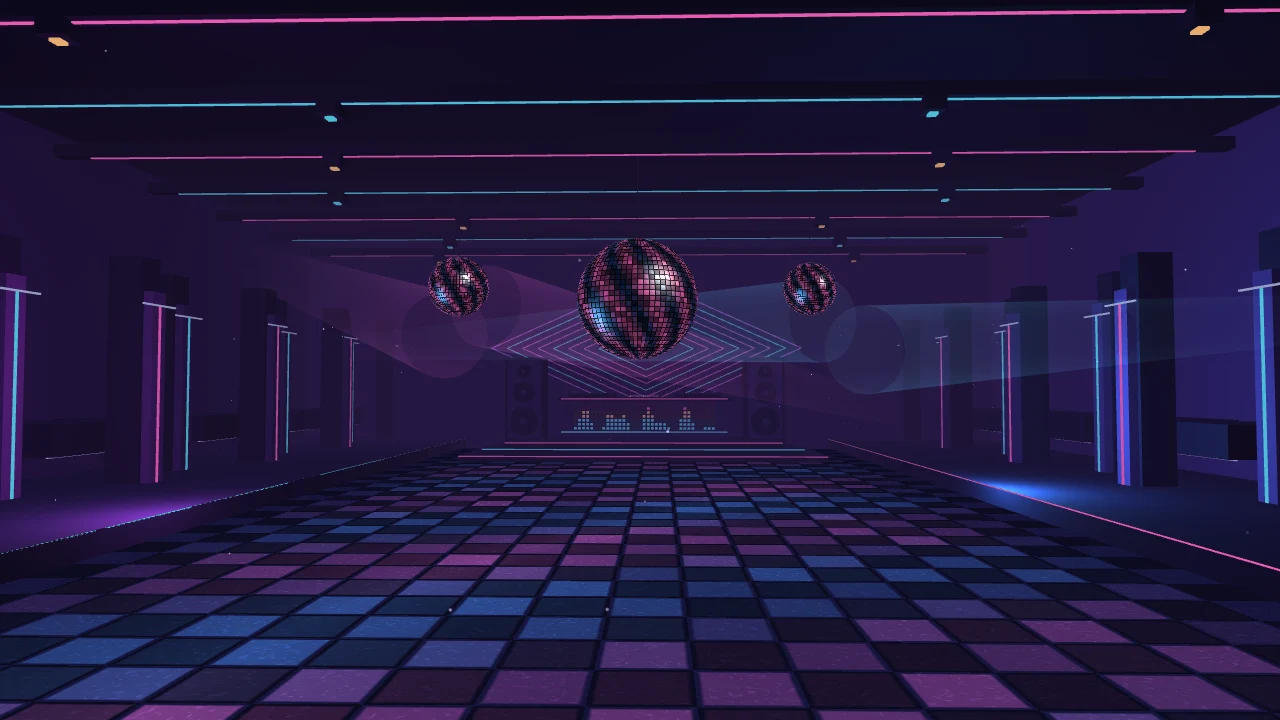
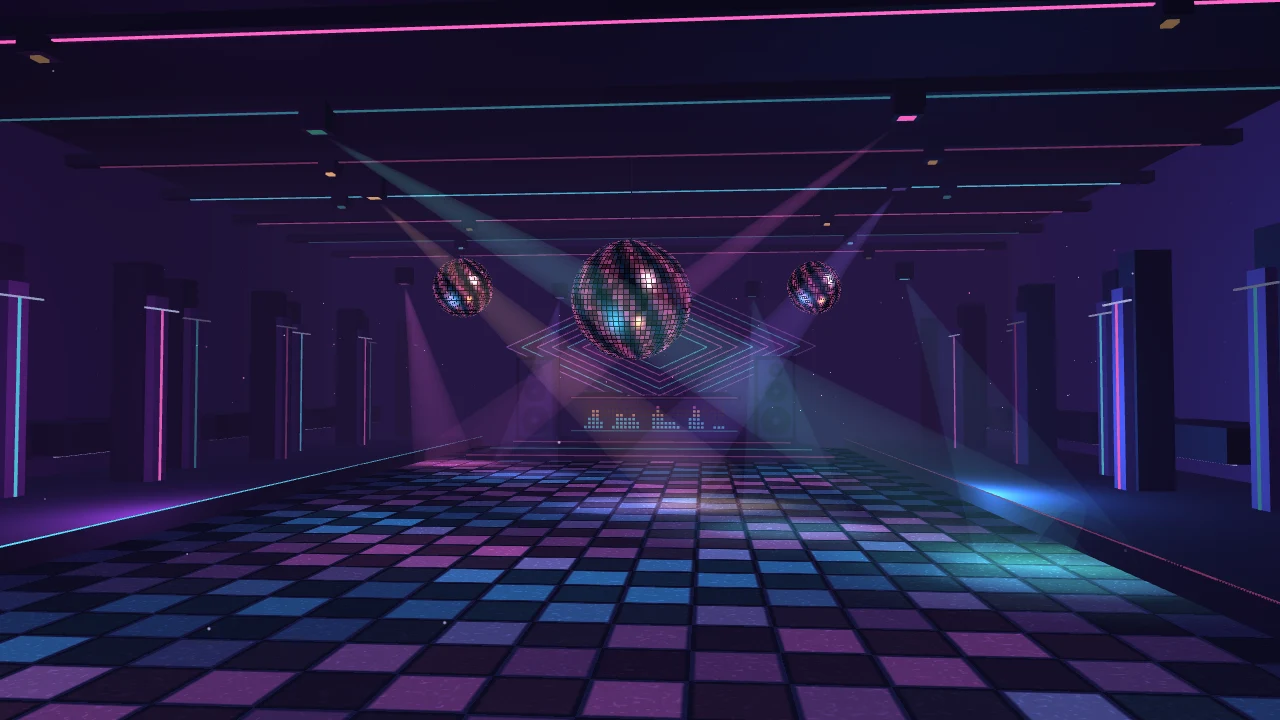
feat: se crean nuevos themes

diff --git a/src/components/scenes/discoEighties.ts b/src/components/scenes/discoEighties.ts
@@ -17,13 +17,17 @@ const discoBallFragment = `
     vec3 facet=vec3(cos(angle)*sin(latitude),cos(latitude),sin(angle)*sin(latitude));
     vec3 normal=normalize(vNormal+facet*.088);
     vec3 reflection=reflect(-normalize(vView),normal);
-    float shine=pow(max(0.,dot(reflection,normalize(vec3(.71,.43,.55)))),19.);
-    float blue=pow(max(0.,dot(reflection,normalize(vec3(-.76,-.44,.30)))),10.);
+    vec3 key=normalize(vec3(.53+.41*sin(uTime*1.65),.43,.57));
+    vec3 fill=normalize(vec3(-.61,-.34+.38*sin(uTime*1.32),.41));
+    float shine=pow(max(0.,dot(reflection,key)),17.);
+    float blue=pow(max(0.,dot(reflection,fill)),11.);
+    float glint=pow(max(0.,dot(reflection,normalize(vec3(.31,-.65,.51)))),46.);
     float rim=pow(1.-max(0.,dot(normal,normalize(vView))),2.8);
     float chroma=.45+.52*sin(tile.x*.93+tile.y*.51+uTime*.68);
     vec3 color=mix(vec3(.063,.10,.22),uAccent*.59,chroma);
     color*=.43+h*.81;
     color+=vec3(1.,.94,.89)*shine*(.58+h*.65)+vec3(.32,.74,1.)*blue*.88;
+    color+=vec3(1.,.70,.34)*glint;
     color+=mix(uAccent,vec3(.43,.66,1.),h)*rim*.26;
     float seams=smoothstep(.045,.14,min(min(cell.x,1.-cell.x),min(cell.y,1.-cell.y)));
     gl_FragColor=vec4(color*(.25+.75*seams),1.);
@@ -37,6 +41,8 @@ export const discoEighties: BuildScene = ({ scene,camera,accent,base }) => {
   const violet=base.clone().lerp(color('#623b83'),.51);
   const cyan=color('#53def4');
   const gold=color('#ffbe75');
+  const lavender=color('#9670ff');
+  const mint=color('#5dffd0');
   const ink=color('#14132a');
   const coolLight=color('#aab9de');
   scene.background=dark;
@@ -52,6 +58,19 @@ export const discoEighties: BuildScene = ({ scene,camera,accent,base }) => {
   const neon:Instance[]=[];
   const acoustic:Instance[]=[];
   const box=new T.BoxGeometry();
+  const clock={value:0};
+  const fixtures = [
+    { origin: new T.Vector3(-13.3, 9.6, -22), tint: accent, phase: .2, reach: 11 },
+    { origin: new T.Vector3(13.3, 9.6, -22), tint: cyan, phase: 2.8, reach: 11 },
+    { origin: new T.Vector3(-10.6, 11.8, -11), tint: gold, phase: 4.3, reach: 9 },
+    { origin: new T.Vector3(10.6, 11.8, -11), tint: lavender, phase: 1.6, reach: 9 },
+    { origin: new T.Vector3(-8.8, 11.8, -2), tint: mint, phase: 3.5, reach: 12 },
+    { origin: new T.Vector3(8.8, 11.8, -2), tint: accent, phase: 5.7, reach: 12 },
+    { origin: new T.Vector3(-5.8, 9.4, -28), tint: lavender, phase: .8, reach: 8 },
+    { origin: new T.Vector3(5.8, 9.4, -28), tint: cyan, phase: 3.9, reach: 8 },
+  ];
+  const spotTargets = fixtures.map(() => new T.Vector2());
+  const spotColors = fixtures.map(({ tint }) => tint);
   function add(list:Instance[],x:number,y:number,z:number,sx:number,sy:number,sz:number,tint:T.Color,
     rx=0,ry=0,rz=0) {
     list.push({x,y,z,sx,sy,sz,color:tint,rx,ry,rz});
@@ -88,6 +107,10 @@ export const discoEighties: BuildScene = ({ scene,camera,accent,base }) => {
       add(structure,x,12.32,z,.64,.46,.72,ink);
       add(neon,x,12.04,z,.26,.079,.30,i%2===0 ? gold : cyan);
     }
+  }
+  for (const { origin, tint } of fixtures) {
+    add(structure,origin.x,origin.y+.43,origin.z,.82,.87,.72,ink);
+    add(neon,origin.x,origin.y+.05,origin.z,.48,.14,.41,tint);
   }
   for(let line=0;line<8;line++){
     const r=3.1+line*.99;
@@ -128,18 +151,35 @@ export const discoEighties: BuildScene = ({ scene,camera,accent,base }) => {
     add(neon,(i-6.5)*.124,3.54,-26.96,.071,.067,.15,i%3===0 ? gold : accent);
   }
   instanced(scene,box,new T.MeshStandardMaterial({roughness:.72}),structure);
-  instanced(scene,box,new T.MeshBasicMaterial(),neon);
+  const neonMaterial=new T.MeshBasicMaterial();
+  neonMaterial.onBeforeCompile=(shader)=>{
+    shader.uniforms.uTime=clock;
+    shader.vertexShader='varying vec3 vFixture;\n'+shader.vertexShader.replace('#include <begin_vertex>',
+      '#include <begin_vertex>\nvFixture=instanceMatrix[3].xyz;');
+    shader.fragmentShader='uniform float uTime; varying vec3 vFixture;\n'+shader.fragmentShader.replace('#include <color_fragment>',`
+      #include <color_fragment>
+      float wave=.5+.5*sin(uTime*3.2+vFixture.z*.34+vFixture.x*.19);
+      float chase=smoothstep(.24,.85,wave);
+      diffuseColor.rgb *= .51+.62*chase;
+    `);
+  };
+  instanced(scene,box,neonMaterial,neon);
   instanced(scene,new T.CylinderGeometry(.5,.5,1,24),new T.MeshStandardMaterial({roughness:.63}),acoustic);
 
-  const floorTime={value:0};
   const floor=new T.Mesh(new T.PlaneGeometry(45,64).rotateX(-Math.PI/2).translate(0,0,-11),new T.ShaderMaterial({
-    uniforms:{uTime:floorTime,uAccent:{value:accent},uBase:{value:base}},
+    defines:{SPOTS:fixtures.length},
+    uniforms:{
+      uTime:clock,uAccent:{value:accent},uBase:{value:base},
+      uSpotTargets:{value:spotTargets},uSpotColors:{value:spotColors},
+    },
     vertexShader:`varying vec3 vFloor;
       void main(){vFloor=position;gl_Position=projectionMatrix*modelViewMatrix*vec4(position,1.);}`,
     fragmentShader:`
       varying vec3 vFloor;
       uniform vec3 uAccent,uBase;
       uniform float uTime;
+      uniform vec2 uSpotTargets[SPOTS];
+      uniform vec3 uSpotColors[SPOTS];
       ${noiseGLSL}
       void main(){
         vec2 p=vFloor.xz*.73;
@@ -147,13 +187,19 @@ export const discoEighties: BuildScene = ({ scene,camera,accent,base }) => {
         vec2 f=fract(p);
         float edge=smoothstep(.032,.082,min(min(f.x,1.-f.x),min(f.y,1.-f.y)));
         float checker=mod(tile.x+tile.y,2.);
-        float wash=.5+.5*sin(tile.y*.77+tile.x*.29-uTime*1.24);
-        float pulse=.5+.5*sin(uTime*1.47+hash(tile+22.)*7.2);
+        float wash=.5+.5*sin(tile.y*.77+tile.x*.29-uTime*2.6);
+        float pulse=.5+.5*sin(uTime*2.6+hash(tile+22.)*7.2);
         float center=1.-smoothstep(5.3,8.9,abs(tile.x+.5));
-        vec3 tint=mix(vec3(.27,.62,.98),uAccent,smoothstep(.10,.90,wash));
-        vec3 color=uBase*(.56+.46*checker)+tint*(.13+checker*.29)*(.38+pulse*.37)*edge*center;
-        float glare=exp(-abs(p.x-sin(uTime*.82+p.y*.14)*4.0)*.49)*smoothstep(-19.,5.,p.y);
-        color+=tint*glare*.16*edge*center;
+        vec3 tint=mix(vec3(.18,.71,.98),uAccent,smoothstep(.10,.90,wash));
+        float sweep=pow(.5+.5*sin(tile.y*.57 + abs(tile.x)*.49 - uTime*3.2),2.5);
+        vec3 color=uBase*(.56+.46*checker)+tint*(.11+checker*.29)*(.37+pulse*.38+sweep*.75)*edge*center;
+        for (int light=0; light<SPOTS; light++) {
+          vec2 offset=(vFloor.xz-uSpotTargets[light])*vec2(.71,1.);
+          float distanceSquared=dot(offset,offset);
+          float spot=1.-smoothstep(.22,5.3,distanceSquared);
+          float halo=1.-smoothstep(2.,17.,distanceSquared);
+          color+=uSpotColors[light]*(spot*.28+halo*.115)*(.69+.31*edge);
+        }
         float speckle=pow(noise(p*22.),7.);
         color*=.87+speckle*.32;
         color=mix(color,uBase*.56,smoothstep(25.,69.,length(vFloor-cameraPosition))*.67);
@@ -162,9 +208,8 @@ export const discoEighties: BuildScene = ({ scene,camera,accent,base }) => {
   }));
   scene.add(floor);
 
-  const ballTime={value:0};
   const ballMaterial=new T.ShaderMaterial({
-    uniforms:{uAccent:{value:accent},uTime:ballTime},
+    uniforms:{uAccent:{value:accent},uTime:clock},
     vertexShader:`
       varying vec2 vUV; varying vec3 vNormal,vView;
       void main(){
@@ -188,24 +233,38 @@ export const discoEighties: BuildScene = ({ scene,camera,accent,base }) => {
     return ball;
   });
 
-  const beamGeo=new T.ConeGeometry(2.3,31,24,1,true).rotateX(Math.PI/2).translate(0,0,15.5);
-  const beams=[-1,1,-1,1].map((side,index)=>{
-    const material=new T.ShaderMaterial({
-      uniforms:{uTint:{value:index%2===0 ? accent : cyan}},
-      side:T.DoubleSide,transparent:true,depthWrite:false,blending:T.AdditiveBlending,
-      vertexShader:`varying vec3 vBeam; varying vec2 vUV;
-        void main(){vBeam=position;vUV=uv;gl_Position=projectionMatrix*modelViewMatrix*vec4(position,1.);}`,
-      fragmentShader:`uniform vec3 uTint; varying vec3 vBeam; varying vec2 vUV;
-        void main(){
-          float width=.53+.47*pow(abs(cos(vUV.x*6.28318)),3.);
-          gl_FragColor=vec4(uTint,.083*width*(1.-smoothstep(3.,29.,vBeam.z)));
-        }`,
-    });
-    const beam=new T.Mesh(beamGeo,material);
-    beam.position.set(side*(8.65+index*.96),8.5-index*.85,-23.9+index*.9);
-    scene.add(beam);
-    return beam;
+  const beamGeo=new T.ConeGeometry(1,1,20,1,true).rotateX(-Math.PI/2).translate(0,0,.5);
+  const beamMaterial=new T.ShaderMaterial({
+    side:T.DoubleSide,transparent:true,depthWrite:false,blending:T.AdditiveBlending,
+    vertexShader:`varying vec3 vTint;
+      varying float vReach;
+      varying vec3 vView,vNormal;
+      void main(){
+        vTint=instanceColor;
+        vReach=position.z;
+        vec4 view=modelViewMatrix*instanceMatrix*vec4(position,1.);
+        vView=-view.xyz;
+        vNormal=normalMatrix*normalize(mat3(instanceMatrix)*vec3(normal.xy,0.));
+        gl_Position=projectionMatrix*view;
+      }`,
+    fragmentShader:`varying vec3 vTint;
+      varying float vReach;
+      varying vec3 vView,vNormal;
+      void main(){
+        float edge=abs(dot(normalize(vView),normalize(vNormal)));
+        float core=.36+.64*pow(edge,1.65);
+        float reach=smoothstep(0.,.09,vReach)*(1.-.51*vReach);
+        gl_FragColor=vec4(vTint,.108*reach*core);
+      }`,
   });
+  const beams = new T.InstancedMesh(beamGeo,beamMaterial,fixtures.length);
+  beams.instanceMatrix.setUsage(T.DynamicDrawUsage);
+  beams.frustumCulled=false;
+  fixtures.forEach(({ tint },i)=>beams.setColorAt(i,tint));
+  scene.add(beams);
+  const beamPose = new T.Object3D();
+  const beamAxis = new T.Vector3(0,0,1);
+  const beamDirection = new T.Vector3();
 
   const leds:Instance[]=[];
   for(let col=0;col<35;col++){
@@ -216,7 +275,7 @@ export const discoEighties: BuildScene = ({ scene,camera,accent,base }) => {
   }
   const ledMaterial=new T.MeshBasicMaterial();
   ledMaterial.onBeforeCompile=(shader)=>{
-    shader.uniforms.uTime=floorTime;
+    shader.uniforms.uTime=clock;
     shader.vertexShader='varying vec2 vTile;\n'+shader.vertexShader.replace('#include <begin_vertex>',
       '#include <begin_vertex>\nvTile=instanceMatrix[3].xy;');
     shader.fragmentShader='uniform float uTime; varying vec2 vTile;\n'+shader.fragmentShader.replace('#include <color_fragment>',`
@@ -230,7 +289,7 @@ export const discoEighties: BuildScene = ({ scene,camera,accent,base }) => {
   const dust=new T.BufferGeometry().setAttribute('position',new T.Float32BufferAttribute(
     Array.from({length:630},(_,i)=>i%3===0 ? (rand()-.5)*48 : i%3===1 ? .15+rand()*11 : -42+rand()*67),3));
   scene.add(new T.Points(dust,new T.ShaderMaterial({
-    uniforms:{uTime:floorTime,uAccent:{value:accent}},transparent:true,depthWrite:false,blending:T.AdditiveBlending,
+    uniforms:{uTime:clock,uAccent:{value:accent}},transparent:true,depthWrite:false,blending:T.AdditiveBlending,
     vertexShader:`uniform float uTime;varying float vAlpha;
       void main(){vec4 p=modelViewMatrix*vec4(position,1.);gl_Position=projectionMatrix*p;
         gl_PointSize=clamp(50./-p.z,1.,5.);
@@ -240,13 +299,53 @@ export const discoEighties: BuildScene = ({ scene,camera,accent,base }) => {
       void main(){float d=length(gl_PointCoord-.5);gl_FragColor=vec4(mix(uAccent,vec3(.7,1.,1.),.58),vAlpha*(1.-smoothstep(.09,.5,d)));}`,
   })));
 
+  const reflections = new T.BufferGeometry().setAttribute('position',new T.Float32BufferAttribute(
+    Array.from({length:780},(_,i)=>i%3===0 ? rand()*Math.PI*2 : i%3===1 ? 2.1+rand()*8.6 : rand()),3));
+  const glints = new T.Points(reflections,new T.ShaderMaterial({
+    uniforms:{uTime:clock,uAccent:{value:accent}},transparent:true,depthWrite:false,blending:T.AdditiveBlending,
+    vertexShader:`uniform float uTime; varying vec2 vGlint;
+      void main() {
+        float angle=position.x+uTime*.58;
+        vec2 ray=vec2(sin(angle),cos(angle));
+        float width=22.5/max(.01,abs(ray.x));
+        float back=21.9/max(.01,abs(ray.y));
+        vec2 hit=ray*min(width,back);
+        vec3 world=vec3(hit.x,position.y+sin(angle*2.+position.z*4.)*.8,hit.y-11.);
+        vec4 view=modelViewMatrix*vec4(world,1.);
+        gl_Position=projectionMatrix*view;
+        gl_PointSize=clamp((42.+position.z*95.)/-view.z,1.3,9.);
+        float pulse=.53+.47*sin(angle*2.3+position.z*29.);
+        vGlint=vec2(position.z,pulse*.88*smoothstep(-.1,.3,-ray.y));
+      }`,
+    fragmentShader:`uniform vec3 uAccent; varying vec2 vGlint;
+      void main(){
+        float r=length(gl_PointCoord-.5);
+        vec3 color=mix(vec3(.35,.84,1.),uAccent,smoothstep(.15,.88,vGlint.x));
+        gl_FragColor=vec4(color,(1.-smoothstep(.07,.5,r))*vGlint.y);
+      }`,
+  }));
+  glints.frustumCulled=false;
+  scene.add(glints);
+
   return {
     still:4.1,
     update(time) {
-      floorTime.value=ballTime.value=time;
-      balls.forEach((ball,i)=>ball.rotation.y=time*(.21+i*.08)+i);
-      beams.forEach((beam,i)=>beam.rotation.set(.17+Math.sin(time*.56+i)*.19,Math.sin(time*.59+i*1.7)*.65-(i%2===0 ? -.36 : .34),0));
-      camera.position.set(Math.sin(time*.13)*1.8,3.6+Math.sin(time*.18)*.38,22+Math.cos(time*.13)*.94);
+      clock.value=time;
+      balls.forEach((ball,i)=>ball.rotation.set(Math.sin(time*.38+i)*.14,time*(.78+i*.11)+i,0));
+      fixtures.forEach(({ origin,phase,reach },i)=>{
+        const target=spotTargets[i].set(Math.sin(time*1.16+phase)*reach,-9+Math.cos(time*.82+phase)*13);
+        beamDirection.set(target.x,0,target.y).sub(origin);
+        const length=beamDirection.length();
+        beamPose.position.copy(origin);
+        beamPose.scale.set(1.55,1.55,length);
+        beamPose.quaternion.setFromUnitVectors(beamAxis,beamDirection.normalize());
+        beamPose.updateMatrix();
+        beams.setMatrixAt(i,beamPose.matrix);
+      });
+      beams.instanceMatrix.needsUpdate=true;
+      pink.intensity=180+65*Math.sin(time*1.69);
+      blue.intensity=195+60*Math.cos(time*1.51);
+      camera.position.set(Math.sin(time*.29)*3.2,3.6+Math.sin(time*.32)*.49,22+Math.cos(time*.24)*1.43);
       camera.lookAt(0,5.25,-16);
     },
   };

diff --git a/src/components/scenes/rain.ts b/src/components/scenes/rain.ts
@@ -34,3 +34,82 @@ export function rain(scene: T.Scene, accent: T.Color, count = 2300) {
   scene.add(lines);
   return material.uniforms.uTime;
 }
+
+export function forestRain(scene: T.Scene, tint: T.Color) {
+  const random = randomGenerator(198);
+  const count = 2040;
+  const positions = new Float32Array(count * 4 * 3);
+  const drops = new Float32Array(count * 4 * 3);
+  const corners = new Float32Array(count * 4 * 2);
+  const indices = new Uint16Array(count * 6);
+
+  for (let i = 0; i < count; i++) {
+    const near = i < 420;
+    const x = (random() - .5) * (near ? 26 : 59);
+    const y = random() * 18;
+    const z = near ? 18 - random() * 12 : 6 - random() * 48;
+    const speed = 10 + random() * 9;
+    const length = (near ? .55 : .42) + random() * .74;
+    const width = (near ? 1.25 : .86) + random() * .86;
+    for (let j = 0; j < 4; j++) {
+      const vertex = i * 4 + j;
+      positions.set([x, y, z], vertex * 3);
+      drops.set([speed, length, width], vertex * 3);
+      corners.set([j % 2 === 0 ? -1 : 1, j < 2 ? 0 : 1], vertex * 2);
+    }
+    const first = i * 4;
+    indices.set([first, first + 1, first + 2, first + 2, first + 1, first + 3], i * 6);
+  }
+
+  const geometry = new T.BufferGeometry()
+    .setAttribute('position', new T.BufferAttribute(positions, 3))
+    .setAttribute('aDrop', new T.BufferAttribute(drops, 3))
+    .setAttribute('aCorner', new T.BufferAttribute(corners, 2))
+    .setIndex(new T.BufferAttribute(indices, 1));
+  const time = { value: 0 };
+  const material = new T.ShaderMaterial({
+    transparent: true,
+    depthWrite: false,
+    side: T.DoubleSide,
+    uniforms: { uTime: time, uTint: { value: tint } },
+    vertexShader: `
+      uniform float uTime;
+      attribute vec3 aDrop;
+      attribute vec2 aCorner;
+      varying vec2 vCorner;
+      varying float vOpacity;
+      void main() {
+        float y = mod(position.y - uTime * aDrop.x, 18.);
+        float drift = .26 + .05 * sin(position.z * .31 + uTime * .91);
+        vec3 start = vec3(position.x + (18. - y) * drift, y, position.z);
+        vec3 end = start + vec3(aDrop.y * drift, -aDrop.y, 0.);
+        vec4 top = projectionMatrix * modelViewMatrix * vec4(start, 1.);
+        vec4 bottom = projectionMatrix * modelViewMatrix * vec4(end, 1.);
+        vec4 clip = mix(top, bottom, aCorner.y);
+        float ratio = projectionMatrix[0][0] / projectionMatrix[1][1];
+        vec2 tangent = (bottom.xy / max(.1, bottom.w) - top.xy / max(.1, top.w)) / vec2(ratio, 1.);
+        vec2 perpendicular = normalize(vec2(-tangent.y, tangent.x));
+        float near = 1. - smoothstep(5., 31., clip.w);
+        float width = aDrop.z * mix(.0018, .0035, near) * mix(.66, 1., aCorner.y);
+        clip.xy += perpendicular * vec2(ratio, 1.) * aCorner.x * width * clip.w;
+        gl_Position = clip;
+        vCorner = aCorner;
+        vOpacity = mix(.31, .69, near) * smoothstep(.1, 1.3, y) *
+                   (1. - smoothstep(27., 65., clip.w)) * smoothstep(.85, 3.5, clip.w);
+      }`,
+    fragmentShader: `
+      uniform vec3 uTint;
+      varying vec2 vCorner;
+      varying float vOpacity;
+      void main() {
+        float edge = 1. - smoothstep(.17, 1., abs(vCorner.x));
+        float tip = smoothstep(0., .69, vCorner.y) * (1. - smoothstep(.87, 1., vCorner.y));
+        gl_FragColor = vec4(mix(uTint * .64, uTint, edge), edge * tip * vOpacity);
+      }`,
+  });
+  const streaks = new T.Mesh(geometry, material);
+  streaks.frustumCulled = false;
+  streaks.renderOrder = 2;
+  scene.add(streaks);
+  return time;
+}

diff --git a/src/components/scenes/rainbowForest.ts b/src/components/scenes/rainbowForest.ts
@@ -1,5 +1,5 @@
 import * as T from 'three';
-import { rain } from './rain';
+import { forestRain } from './rain';
 import {
   fractal, instanced, lighting, noiseGLSL, randomGenerator, rockGeometry, skyDome, skyUniforms, terrain,
   type BuildScene, type Instance,
@@ -52,7 +52,7 @@ export const rainbowForest: BuildScene = ({ scene, camera, accent, base }) => {
   scene.fog = new T.FogExp2(accent.clone().lerp(base,.48),.025);
   lighting(scene,'#c4efd4','#63824d','#ffebad',2.2,[-10,11,-16],1.65);
   const skyTime = skyDome(scene, sky, accent, base);
-  const rainTime = rain(scene,color('#d7eadc'),1350);
+  const rainTime = forestRain(scene, color('#e4f5ff'));
 
   function ground(x: number,z: number) {
     const shore = T.MathUtils.smoothstep(Math.abs(x-streamCenter(z)),1.6,4.1);
@@ -93,11 +93,14 @@ export const rainbowForest: BuildScene = ({ scene, camera, accent, base }) => {
         float reflected=pow(1.-abs(ray.y),2.9);
         vec2 ref=vec2(ray.x,-ray.y+(wave-.5)*.05)/max(.32,-ray.z);
         vec3 color=mix(uBase*.63,uAccent*(.17+.28*noise(ref*vec2(16.,2.))),reflected);
-        vec2 i=floor(p*2.2),f=fract(p*2.2);
-        vec2 drop=vec2(hash(i+7.),hash(i+24.))*.70+.15;
-        float radius=fract(uTime*1.6+hash(i));
-        float ring=1.-smoothstep(.013,.038,abs(distance(f,drop)-radius*.52));
-        color+=uAccent*(ring*(1.-radius)*.21+pow(wave,4.)*.13);
+        vec2 i=floor(p*1.55),f=fract(p*1.55);
+        vec2 drop=vec2(hash(i+7.),hash(i+24.))*.46+.27;
+        float age=fract(uTime*1.95+hash(i));
+        float distanceToDrop=distance(f,drop);
+        float ring=1.-smoothstep(.014,.042,abs(distanceToDrop-age*.49));
+        float echo=1.-smoothstep(.011,.030,abs(distanceToDrop-max(0.,age-.16)*.45));
+        float splash=(1.-smoothstep(.024,.10,distanceToDrop))*(1.-smoothstep(.025,.17,age));
+        color+=uAccent*((ring+.33*echo)*pow(1.-age,1.4)*.38+splash*.49+pow(wave,4.)*.13);
         vec4 bow=rainbow(ref);
         color=mix(color,bow.rgb,bow.a*reflected*.36);
         gl_FragColor=vec4(color,1.);
